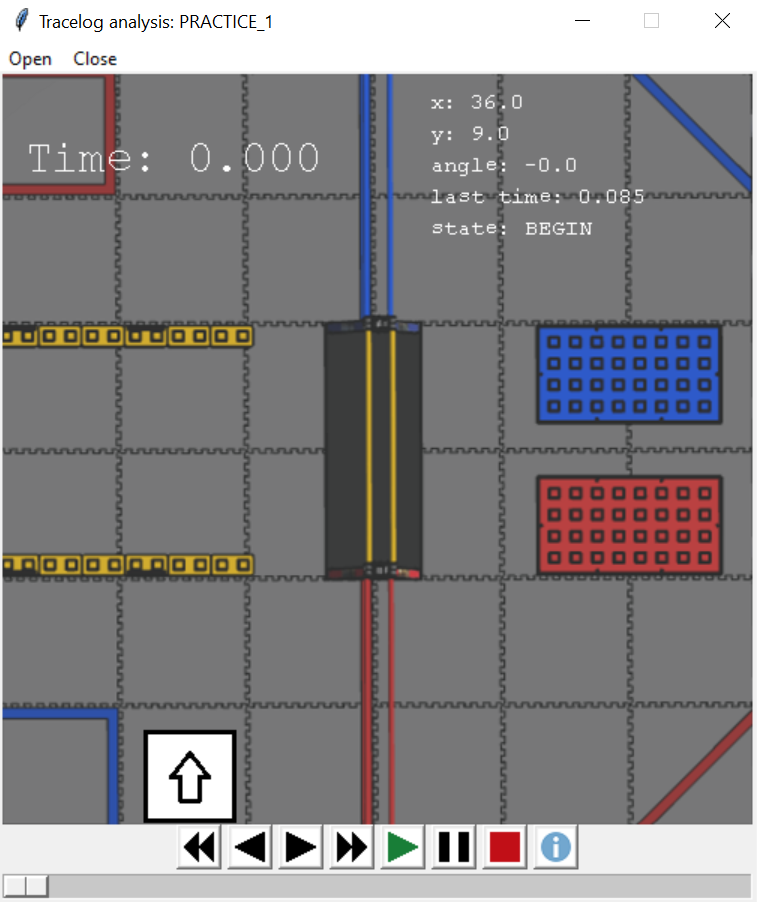
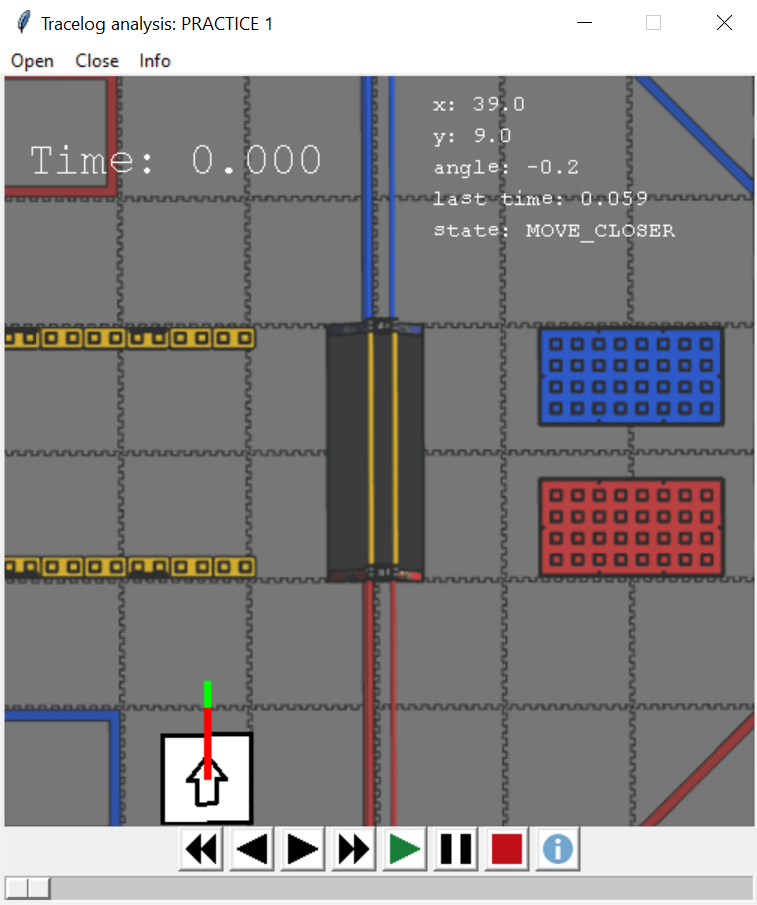
Updated README to add config.json info, log format info, and other small tweaks to match recent updates.

diff --git a/README.md b/README.md
@@ -9,7 +9,7 @@
 
 ## Installation
 
-This script depends on `numpy` and `pygame` to run correctly. You can install both by running `python3 -m pip install -r requirements.txt` (`py -m pip install -r requirements.txt` if using Windows) in this directory.
+This script depends on `numpy`, `pygame`, and `xmltodict` to run. You can install both by running `python3 -m pip install -r requirements.txt` (`py -m pip install -r requirements.txt` if using Windows) in this directory.
 
 ## Versions
 
@@ -34,8 +34,21 @@ The button controls (left to right) are as follows:
 * Play - What you would expect
 * Pause - Also what you would expect
 * Stop - Pauses and jumps to the beginning of the log
-* Info - Opens (or focuses if already open) a window containing extra PID information and displays PID errors relative to the robot
+* Info - Toggles extra target info vectors (red line is from current pos to target pos, green line represents the target heading)
 
-The `Open` button at the top of the window can be used to open a new log file, and the `Close` button closes the window.
+The `Open` button at the top of the window can be used to open a new log file, and the `Close` button closes the window. The `Info` button displays a dropdown list of menus that can be opened to get more in depth info.
 
 The timeline at the bottom can be scrolled left and right and moves with the stopwatch timer.
+
+## Anatomy of a log
+
+Every line that contains data should be in standard XML format, or it will be ignored. The content of the lines should be as follows (all values within quotes, positions in `%.1f` format, and times in `%.3f`):
+
+* At least one Info tag with the name MatchInfo, containing the date, type, and number of a match.
+* At least one Info tag with the name AutoChoices, with any autonomous choices selected. This is automatically sorted through.
+* Any number of Event tags with the name StateInfo, each containing the time, the current state name, and the current x/y/heading as well as the targets, followed by...
+* Any number of Event tags with the name RobotPose, each containing the time and a pose in the format `"(x=%.1f,y=%.1f,angle=%.1f)"` (spaces can also be inserted for readability in logical locations).
+
+Note that the Info tags can be located anywhere in the file and they will still be interpreted correctly. However, with the Event tags, there must be at least one StateInfo already in the log before any RobotPoses are added or the parser won't work.
+
+There is an example log in the top directory for more reference.
